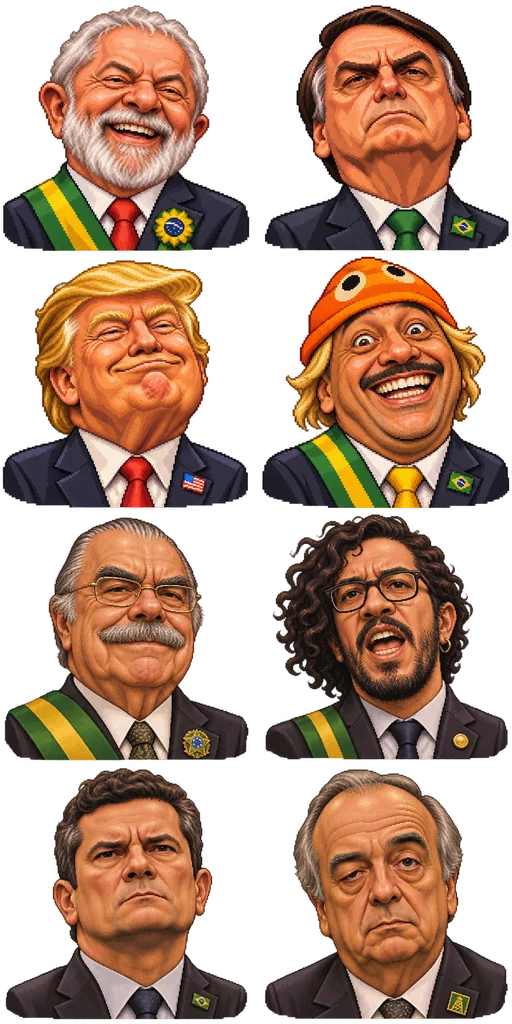
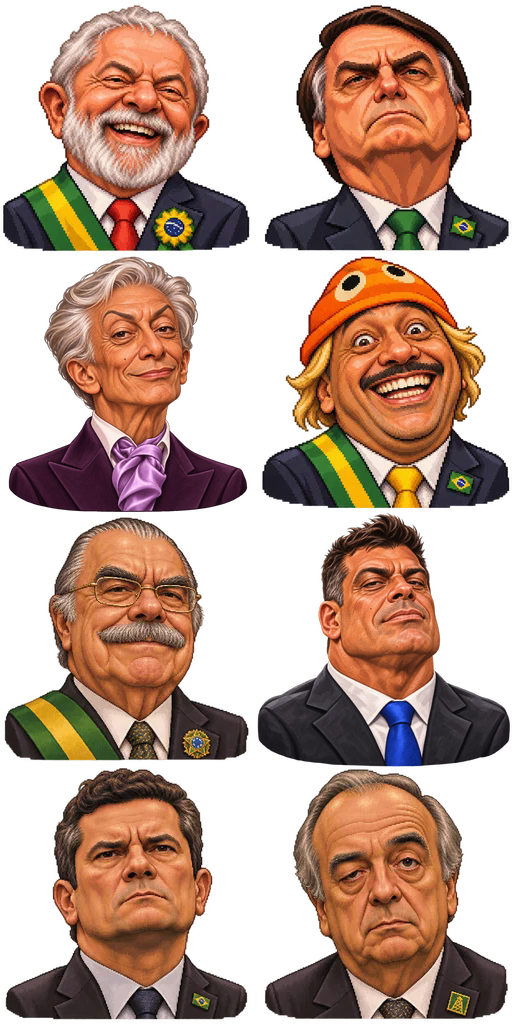
Replace Trump and Jean Wyllys with Clodovil and Alexandre Frota

Changed region(s): [[0.5, 0.5, 1.0, 0.75], [0.0, 0.25, 0.5, 0.5]]

diff --git a/apps/sessao/src/game.ts b/apps/sessao/src/game.ts
@@ -27,10 +27,10 @@ type WalkGrips = readonly [Grip,Grip,Grip,Grip];
 const briefcaseGrip = {
   Lula: [[[85,101],[91,94],[85,101],[88,85]],[[57,102],[82,89],[57,102],[78,88]],[[38,100],[39,95],[38,100],[40,89]]],
   Bolsonaro: [[[83,103],[86,97],[83,103],[87,87]],[[57,104],[85,90],[57,104],[82,89]],[[41,103],[41,99],[41,103],[43,94]]],
-  Trump: [[[91,101],[94,93],[91,101],[84,93]],[[53,102],[82,87],[53,102],[83,88]],[[36,100],[36,96],[36,100],[37,95]]],
+  Clodovil: [[[90,101],[95,94],[90,101],[87,91]],[[56,103],[81,84],[56,103],[81,84]],[[34,101],[36,96],[34,101],[36,96]]],
   Tiririca: [[[85,104],[89,95],[85,104],[80,91]],[[58,103],[86,88],[58,103],[87,87]],[[41,105],[38,98],[41,105],[39,91]]],
   'José Sarney': [[[84,105],[87,98],[84,105],[82,92]],[[55,105],[84,89],[55,105],[82,89]],[[42,106],[39,100],[42,106],[42,93]]],
-  'Jean Wyllys': [[[85,106],[89,98],[85,106],[83,91]],[[60,105],[89,89],[60,105],[88,88]],[[43,106],[40,100],[43,106],[43,93]]],
+  'Alexandre Frota': [[[92,106],[94,92],[92,106],[87,91]],[[54,105],[83,85],[54,105],[83,85]],[[34,106],[34,96],[34,106],[34,96]]],
   'Sergio Moro': [[[85,106],[87,99],[85,106],[82,92]],[[55,105],[85,90],[55,105],[84,89]],[[43,106],[40,100],[43,106],[43,94]]],
   'Nestor Cerveró': [[[85,106],[88,98],[85,106],[81,92]],[[58,105],[88,90],[58,105],[87,89]],[[43,106],[40,100],[43,106],[42,94]]],
 } satisfies Record<(typeof NAMES)[number],readonly [WalkGrips,WalkGrips,WalkGrips]>;

diff --git a/apps/sessao/server/PlenaryMatch.test.ts b/apps/sessao/server/PlenaryMatch.test.ts
@@ -13,8 +13,8 @@ import { canStand, localPerception, characterVisible, type Player } from '../src
 import { findRoute } from '../src/navigation';
 import { PlenaryMatch } from './PlenaryMatch';
 
-const ids = ['lula','bolsonaro','trump'];
-const people = ids.map((id,character):Player => ({id,nick:['Lula','Bolsonaro','Trump'][character],character,x:140+36*character,y:146,direction:0,moving:false}));
+const ids = ['lula','bolsonaro','clodovil'];
+const people = ids.map((id,character):Player => ({id,nick:['Lula','Bolsonaro','Clodovil'][character],character,x:140+36*character,y:146,direction:0,moving:false}));
 const [host,honest,traitor] = people;
 const at = (player:Player, station:keyof typeof stations) => ({...player,...stations[station]});
 
@@ -71,7 +71,7 @@ test('the vote uses actual costs, requires a majority and reveals the infiltrato
     }
   }
   match.advance(ELECTION_RULES.matchDuration);
-  expect(match.view(host.id,ids,now)).toMatchObject({phase:'finished',winner:'Parlamentar',infiltratorName:'Trump'});
+  expect(match.view(host.id,ids,now)).toMatchObject({phase:'finished',winner:'Parlamentar',infiltratorName:'Clodovil'});
 });
 
 test('nearby voices can carry past a wall without revealing the speaker', () => {

diff --git a/apps/sessao/src/map.ts b/apps/sessao/src/map.ts
@@ -7,7 +7,7 @@ import { mapNpcs, npcs, snackBar, treasurer } from './npcs';
 export const WIDTH = 1136;
 export const HEIGHT = 759;
 export const SPEED = 88;
-export const NAMES = ['Lula', 'Bolsonaro', 'Trump', 'Tiririca', 'José Sarney', 'Jean Wyllys', 'Sergio Moro', 'Nestor Cerveró'] as const;
+export const NAMES = ['Lula', 'Bolsonaro', 'Clodovil', 'Tiririca', 'José Sarney', 'Alexandre Frota', 'Sergio Moro', 'Nestor Cerveró'] as const;
 export type Rect = readonly [x: number, y: number, width: number, height: number];
 
 export const isolationRoom = {name:'Sala de Isolamento',bounds:[65,655,129,94] as Rect,spawn:{x:129.5,y:703},exit:{x:130,y:516}};

diff --git a/apps/sessao/src/character-art.test.ts b/apps/sessao/src/character-art.test.ts
@@ -5,10 +5,10 @@ import { NAMES } from './map';
 for (const [name,skin] of [
   ['Lula','lula'],
   ['Bolsonaro','bolsonaro'],
-  ['Trump','trump'],
+  ['Clodovil','clodovil'],
   ['Tiririca','tiririca'],
   ['José Sarney','sarney'],
-  ['Jean Wyllys','jean-wyllys'],
+  ['Alexandre Frota','alexandre-frota'],
   ['Sergio Moro','sergio-moro'],
   ['Nestor Cerveró','nestor-cervero'],
 ] as const) {

diff --git a/apps/sessao/src/character-art.ts b/apps/sessao/src/character-art.ts
@@ -10,10 +10,10 @@ export const characterSheets = [
 const combatCharacters:Record<(typeof NAMES)[number],string> = {
   Lula:'lula',
   Bolsonaro:'bolsonaro',
-  Trump:'trump',
+  Clodovil:'clodovil',
   Tiririca:'tiririca',
   'José Sarney':'sarney',
-  'Jean Wyllys':'jean-wyllys',
+  'Alexandre Frota':'alexandre-frota',
   'Sergio Moro':'sergio-moro',
   'Nestor Cerveró':'nestor-cervero',
 };
